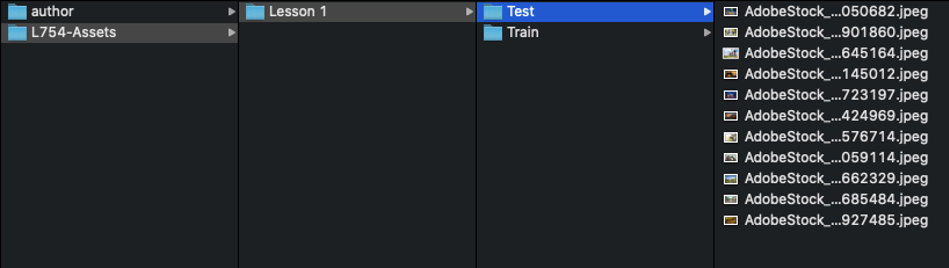
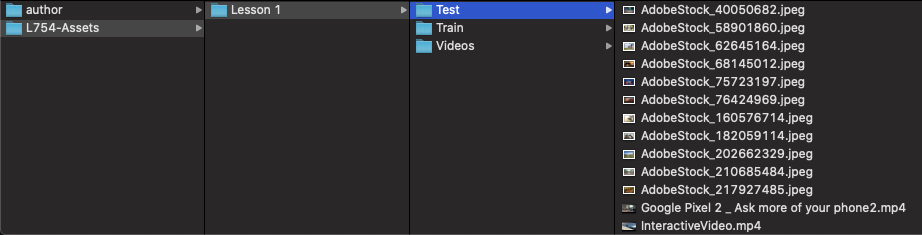
Latest changes

diff --git a/l754/Home.md b/l754/Home.md
@@ -1,12 +1,12 @@
-# L754 - Digital Asset Management in an AI-First World
+ # L754 - Digital Asset Management in an AI-First World
 
 ## Table of Contents
 
 * [Lab Overview](#lab-overview)
 * [Lesson 1 - Improve discoverability through contextual Smart Tags](#lesson-1---improve-discoverability-through-contextual-Smart-Tags) 
-* [Lesson 2 - Enhanced search powered by AI](#lesson-2---enhanced-search-powered-by-ai)
+* [Lesson 2 - Enhance search using the power by AI](#lesson-2---enhance-search-using-the-powered-by-ai)
 * [Lesson 3 - Smart cropping of images & videos](#lesson-3---smart-cropping-of-images-&-videos)
-* [Lesson 4 - Use business context to improve insights & search for assets](#lesson-4---use-business-context-to-improve-insights-&-search-for-assets)
+* [Lesson 4 - Unlocking value with the power of Asset Insights](#lesson-4---Unlocking-value-with-the-power-of-Asset-Insights)
 * [Additional Resources](#additional-resources)
 
 ## Lab Overview
@@ -51,7 +51,7 @@ In order to train the Smart Tagging service with your custom tags, you have to h
     * **Username**: admin
     * **Password**: admin 
 
-* Open **Global Navigation** by clicking on the AEM Logo (![aem-logo](assets/aem-icon.jpeg =20x))the upper left corner of the screen.
+* Open **Global Navigation** by clicking on the AEM Logo <img src="assets/aem-icon.jpeg" alt="aem-logo" width="18"/> the upper left corner of the screen.
 * Select the **Tools** (_hammer_) icon from the left railing. The right panel will default to **General**.
 
 ![1.1-tagging-screen](assets/1.1-tagging-screen.png)
@@ -164,11 +164,16 @@ This exercise demonstrates the process to carry out such a training.
 * Finally click on the **Save & Close** button on the properties screen, then check the **Append** option and click on **Submit** button to save the tag successfully
 
 * * * 
-**Note**:
+
+**Note**: 
+
+<br>
+<img src="assets/bulb.png" alt="idea-bulb" width="50"/>
 
 ##### Choosing the Training Assets
 
 Training the Smart Tag service to tag images automatically with custom tags requires certain qualities in the training images
+
 * **Quantity and Size**: Use about 25-30 images per tag with a minimum of 500 pixels on the longer side
 * **Coherence**: Images tagged with the same tag should be visually similar
 * **Coverage**: Have sufficient variety in the training images in terms of color, orientation and sizes of the same subject
@@ -177,6 +182,7 @@ Training the Smart Tag service to tag images automatically with custom tags requ
 * **Union**: For those images that qualify for multiple tags, all applicable tags should be applied during training
 
 * * * 
+
 
 #### 1.1.3.	Run the Smart Tag Training workflow
 
@@ -188,7 +194,7 @@ Having setup sample assets with the necessary tags for training, the final step 
     * Go to http://localhost:4502 and enter the following credentials
     * **Username**: admin
     * **Password**: admin 
-* Open **Global Navigation** by clicking on the AEM Logo (![aem-logo](assets/aem-icon.jpeg =20x))the upper left corner of the screen.
+* Open **Global Navigation** by clicking on the AEM Logo <img src="assets/aem-icon.jpeg" alt="aem-logo" width="18"/> the upper left corner of the screen.
 * Select the **Tools** (_hammer_) icon from the left railing. . Then select the **Workflow** item in the middle pane that opens up the workflow related cards on the right pane
 
 ![1.3.1-workflow](assets/1.3.1-workflow.png)
@@ -269,7 +275,7 @@ This exercise demonstrates how the application of the previously trained custom 
 
 ##### Check properties of the assets for validating application of custom tags
 
-* Go into the **Banners-Ne**w folder in AEM by clicking on the folder name
+* Go into the **Banners-New** folder in AEM by clicking on the folder name
 * Select any asset by hovering over the asset and selecting the check mark icon
 * Click **Manage Tags** option from the menu bar at the top
 
@@ -284,55 +290,13 @@ This exercise demonstrates how the application of the previously trained custom 
 
 Any new assets ingested after the training can potentially be tagged with the custom tags based on the subject of the images being ingested.
 
-### Exercise 1.3: Enrich video assets with Smart Tags
-
-AEM not only supports automatic tagging of images, but also automatically suggests tags for video assets as well.  In this exercise, you will see the tagging of video assets in action.
-
-#### 1.3.1 Create a new folder for uploading video assets
-
-* Login to the AEM Assets Author instance 
-    * Go to http://localhost:4502 and enter the following credentials
-    * **Username**: admin
-    * **Password**: admin 
-* Go to the following location in your local AEM instance: http://localhost:4502/assets.html/content/dam 
-* Click on **Create** button on the top right corner
-* Select **Folder** in the fly-out menu
-* Provide the Title for the new folder as **Videos**
-* Click on the **Create** button to create the new folder
-
-#### 1.3.2 Enable Smart Tagging on the new folder
-
-* Select the **Videos** folder by hovering over the folder name and selecting the check mark icon
-* Click on the **Properties** link in the top menu bar to open the folder properties
-* Check the **Enable Smart Tags** option and then click on **Save & Close**
-
-#### 1.3.3 Upload test assets for auto-tagging
-
-* Go into the **Videos** folder in AEM by clicking on the folder name
-* Open Finder on the desktop
-* Navigate to **Desktop > Assets > Lesson 1 > Videos** folder
-1.3-videos
-![1.3-videos](assets/1.3-videos.png)
-* Select all the files in that folder 
-* Drag-&-drop them onto the AEM window in the browser
-* Wait for the processing of the assets to be done which may take 1-2 minutes, then refresh the page
-* Once the processing is done, all the assets are shown with a New label on the right corner
-
-#### 1.3.4 Check properties of the assets for validating application of custom tags
-
-* Go into the **Videos** folder in AEM by clicking on the folder name
-* Select any asset by hovering over the asset and selecting the check mark icon
-* Click **Manage Tags** option from the menu bar at the top
-
-![1.3-videos-tags](assets/1.3-videos-tags.png)
-
-### Exercise 1.4: Moderation of suggested tags
+### Exercise 1.3: Moderation of suggested tags
 
 While the AI algorithm does a great job of suggesting many relevant tags, the control is finally in the hands of the user to curate and refine the suggested tags further to boost the search-ability of these images that are auto-tagged by the algorithm.
 
 In this exercise, we will look at how to moderate the tags on the assets in AEM
 
-#### 1.4.1 Select folder or image for which tags need to be moderated
+#### 1.3.1 Select folder or image for which tags need to be moderated
 
 * Login to the AEM Assets Author instance 
     * Go to http://localhost:4502 and enter the following credentials
@@ -344,7 +308,7 @@ In this exercise, we will look at how to moderate the tags on the assets in AEM
 
 ![1.4-manage-tags](assets/1.4-manage-tags.png)
 
-#### 1.4.2 Purge the unwanted tags that are not relevant to the asset
+#### 1.3.2 Purge the unwanted tags that are not relevant to the asset
 
 * In the tag moderation screen, select the tags that are not relevant to the image, by clicking on them. For example, in the image below, consider the following tags are not relevant and select them by clicking on them
     * **sunrise,sunset**
@@ -352,7 +316,7 @@ In this exercise, we will look at how to moderate the tags on the assets in AEM
 
 ![1.4-purge-tags](assets/1.4-purge-tags.png)
 
-#### 1.4.3 Promote relevant tags 
+#### 1.3.3 Promote relevant tags 
 
 * We also want to indicate a higher priority to some of the more relevant tags by promoting them. We do this by selecting the relevant tags and clicking on the **Promote** button on the top menu bar. In this example asset, let us promote the following tags: 
     * **silhouette, success, achievement**
@@ -364,26 +328,46 @@ In this exercise, we will look at how to moderate the tags on the assets in AEM
 
 With these steps, you have curated the auto-suggested tags to suit your assets while promoting the more relevant tags to boost the search-ability of these images greatly.
 
-# Lesson 2 - Enhanced search powered by AI
+### Exercise 1.4: Enrich video assets with Smart Tags
+
+AEM not only supports automatic tagging of images, but also automatically suggests tags for video assets as well.  In this exercise, you will see the tagging of video assets in action.
+
+#### 1.4.1 Navigate to **Banners-New** folder created earlier
+
+* Login to the AEM Assets Author instance 
+    * Go to http://localhost:4502 and enter the following credentials
+    * **Username**: admin
+    * **Password**: admin 
+* Go to the following location in your local AEM instance: http://localhost:4502/assets.html/content/dam/wknd/banners-new
+
+
+#### 1.4.2 Validate that tags are automatically applied on the video assets
+
+* Go into the **Banners-New** folder in AEM by clicking on the folder name
+* Notice that the test assets that we uploaded earlier also included 2 video files
+* Look for the video assets with **.mp4 extension**. Hover over the file and select it
+* Click **Manage Tags** option from the menu bar at the top
+
+You will notice that the video assets have also received suggested tags based on the contents of the video using the Smart Tagging capabilities of AEM.
+
+![1.3-videos-tags](assets/1.3-videos-tags.png)
+
+# Lesson 2 - Enhance search using the power by AI
 
 ## Objective
 
-1.TBD
-2.TBD
+1. Learn how the smart tagging increases the efficacy of search in AEM
+2. Understand how to use the Visual or Similarity search feature to further improve image search in AEM
 
 
 ## Lesson Context
 
-TBD
+By running the assets through the auto-tagging process, we have brought out the ‘dark assets’ to the surface with appropriate metadata applied on them. In this exercise, let us see the effects that auto-tagging and tag moderation processes have on the search experience for the users.
  
 
 ### Exercise 2.1: Text Search
 
-#### 2.1.1 Experience the improved search efficacy with auto-tagged assets
-
-By running the assets through the auto-tagging process, we have brought out the ‘dark assets’ to the surface with appropriate metadata applied on them. In this exercise, let us see the effects that auto-tagging and tag moderation processes have on the search experience for the users.
-
-##### Navigate to the Assets folder in AEM
+#### Navigate to the Assets folder in AEM
 
 * Login to the AEM Assets Author instance 
     * Go to http://localhost:4502 and enter the following credentials
@@ -391,21 +375,20 @@ By running the assets through the auto-tagging process, we have brought out the 
     * **Password**: admin 
 * Go to the following location in your local AEM instance: http://localhost:4502/assets.html/content/dam
 
-##### Initiate a new search using one of the promoted tags
+#### Initiate a new search using one of the promoted tags
 
 * Click on the lens icon at the top right corner of the screen to open the Omnisearch
 * Enter the term **earth** in the Omnisearch and hit enter
 * The search results page will bring up the video that contains content related to earth. This asset would not have been discoverable without the automated tagging of the video
 
-![2.1-text-search](assets/2.1-text-search.png =500x)
+<img src="assets/2.1-text-search.png" alt="2.1-text-search" width="500"/> 
 
 * Next, try entering the term **achievement** in the Omnisearch and hit enter
 * The search results page will bring up the images that have a subject related to the concept of achievement, such as the image below with a person celebrating 
-2.1-achievement
 ![2.1-achievement](assets/2.1-achievement.png)
 * Notice that we had promoted the tag **achievement** earlier for this image which prompted the search engine to bring up this image in the results, despite the asset not having anything related in the name or description 
 
-##### Initiate a new search using one of the deleted tags
+#### Initiate a new search using one of the deleted tags
 
 * Click on the lens icon again to open the Omnisearch
 * Enter the term **sunrise** in the Omnisearch and hit enter
@@ -415,9 +398,7 @@ This exercise clearly demonstrates how the Tag management capabilities in AEM ad
 
 ### Exercise 2.2: Visual Search
 
-#### 2.2.1 Using visual search
-
-##### Navigate to the assets root folder and search for sunrise again
+#### Navigate to the assets root folder and search for sunrise again
 
 * Login to the AEM Assets Author instance 
     * Go to http://localhost:4502 and enter the following credentials
@@ -428,7 +409,7 @@ This exercise clearly demonstrates how the Tag management capabilities in AEM ad
 * Enter the term **sunrise** in the Omnisearch, as done earlier, and hit enter
 * You will the results with images related to sunrise
 
-##### Choose the ‘Find Similar’ action for any of the asset
+#### Choose the ‘Find Similar’ action for any of the asset
 
 * Hover on the image that you are interested in, then click on the ellipsis (…) icon to open **More actions** menu
 * For this example, we are using the image with sunrise & mountains together, hover on the image and click on the ellipsis (…)
@@ -441,6 +422,15 @@ This exercise clearly demonstrates how the Tag management capabilities in AEM ad
 ![2.2-visual-search-results](assets/2.2-visual-search-results.png) 
 
 * Also notice on the search form at the top of the results page, it now has a small thumbnail of the image against the search was triggered, to indicate what results are being shown currently
+
+* Let's try one more, go to the location http://localhost:4502/assets.html/content/dam/wknd/banners-new
+
+![2.2-visual-star-hotel](assets/2.2-visual-star-hotel.png)
+
+* Initiate a **Find similar** action on the **Thousand star Hotel** image (ADOBESTOCK_75723197.JPEG)
+* This brings up many other images with a tent, that we had uploaded in the earlier exercises
+
+![2.2-star-hotel-results](assets/2.2-star-hotel-results.png)
 
 # Lesson 3 - Smart cropping of images & videos
 
@@ -556,3 +546,22 @@ Cropping images and video can be a time-consuming and labor-intensive endeavor t
 ![3.2-device-options](assets/3.2-device-options.png)
 * While being in the developer tools mode, play the video and switch between different phone & tablet devices along with the portrait and landscape modes to see how the video adapts to the changing screen dimensions
 ![3.2-portrait-landscape](assets/3.2-portrait-landscape.png)
+
+# Lesson 4 - Unlocking value with the power of Asset Insights
+
+## Objective
+
+1. Know how Asset Insights can help uncover the ROI for the assets that your enterprise has invested in
+2. Learn how to attribute the user engagement and conversions back to the creative and content strategies
+3. Explore how you can bring back insights into AEM to increase the efficacy of search and use of assets
+
+
+## Lesson Context
+
+Asset Insights provides a capability that is unique to AEM which allows the marketers to measure the use and reach of their assets across different digital properties and thus derive insights around the efficacy of the assets. While the default Asset Insights capabilities provide a view into the usage of the assets, it is possible to extend the scope of the insights to associate the assets to business-centric metrics such as successful conversions and revenue.
+
+This lesson aims to walk you through the possible approach for enhancing the Asset Insights implementation to derive deeper insights around the use and reach of assets and thus helping the marketers fine tune their asset and content creation strategies for the future campaigns. 
+
+### Exercise 4.1: Understand Asset Insights
+
+##### 

diff --git a/l737/Home.md b/l737/Home.md
@@ -102,7 +102,7 @@ After setting up the contribution folder and uploading the baseline assets into 
 This will publish the Contribution folder to Brand Portal. 
 * An email notification is sent to the Brand Portal users/groups who are selected at the time of creating the contribution folder. They can login to Brand Portal and contribute the requested assets
 
-![1.3-contribution-notification](assets/1.3-contribution-notification.png =600x)
+<img src="assets/1.3-contribution-notification.png" alt="1.3-contribution-notification" width="600"/>
 
 
 ### Exercise 1.4 Uploading assets into contribution folder in Brand Portal
@@ -131,7 +131,7 @@ Once the Contribution folder is published to Brand Portal, the designated users 
 * Click **Create > Files** to upload individual assets into the **New** folder 
 * Select the assets from the **Desktop > L737-Assets > Lesson 1 > Upload** folder from the local desktop
 
-![1.4-new-upload](assets/1.4-new-upload.png =600x)
+<img src="assets/1.4-new-upload.png" alt="1.4-new-upload" width="600"/>
 * Click on **Open** and then click on **Upload** button on the next dialog to successfully upload the new assets into the **New** folder on Brand Portal
 
 
@@ -146,7 +146,7 @@ After uploading the requested assets into Brand Portal, it is now time to publis
 * Select the **WKND Banners** folder and click on **Publish to AEM** 
 ![1.5-publish-aem](assets/1.5-publish-aem.png)
 * A success message will be shown for the publish request, as seen in the screen shot below
-![1.5-success](assets/1.5-success.png =350x)
+<img src="assets/1.5-success.png" alt="1.5-success" width="350"/>
 * To check the status of the, unselect the **WKND Banners** folder and click on the AEM icon <img src="assets/aem-icon.jpeg" width="23"> on the top left corner
 * Click on the Asset Contribution Status card
 * You will see the list of all the Publish to AEM requests raise in the past and their status
@@ -192,7 +192,7 @@ This exercise will cover steps to publish approved assets from AEM into Brand Po
 * On the Create Folder panel, set name & title for the folder.
 * Naming convention for this lab: ‘**L737-AttendeeName-AttendeeOrganization**’ (e.g. L737-Rajit- Adobe).
 
-![2.1-create-dialog](assets/2.1-create-dialog.png =250x)
+<img src="assets/2.1-create-dialog.png" alt="2.1-create-dialog" width="250"/>
 
 * Navigate to the newly created folder & upload sample assets into the folder using Touch UI upload or Drag & Drop feature in AEM
 
@@ -312,7 +312,7 @@ This exercise will show how to setup public folders. To make a folder public in 
 * Guest users can download the assets using download modal.
 
 
-![2.5-guest-download](assets/2.5-guest-download.png =250x)
+<img src="assets/2.5-guest-download.png" alt="2.5-guest-download" width="250"/>
 
 * To end session, Guest user can click on top right and ‘End Session’
 
@@ -346,7 +346,7 @@ You will see results pertaining to the text with which you performed the search,
 
 * With Smart Tags configured in your AEM Assets, Brand Portal supports smart tag based searches. (AEM publishes the smart tags for each asset while publishing them to Brand Portal).
 
-![3.1-smart-tags](assets/3.1-smart-tags.png =250x)
+<img src="assets/3.1-smart-tags.png" alt="3.1-smart-tags" width="250"/>
 
 * * *
 _**Note**: The **Assets Smart Tags** feature increases the accuracy and efficiency of search in AEM & Brand Portal by automatically adding metadata tags to image assets that you upload into AEM. You can also configure AEM to automatically apply tags in bulk to all assets within a folder_
@@ -361,7 +361,7 @@ _**Note**: The **Assets Smart Tags** feature increases the accuracy and efficien
 * Saved Searches can be accessed by using the Saved Searches dropbox in Filter
 2.5-saved-search
 
-![3.1-saved-search](assets/3.1-saved-search.png =300x)
+<img src="assets/3.1-saved-search.png" alt="3.1-saved-search" width="250"/>
 
 ### Exercise 3.2 Downloading from Brand Portal 
 
@@ -373,7 +373,7 @@ This exercise will cover the process and options to download assets from Brand P
 
 * Download modal will show up, which allow users to download the asset including renditions. If asset has pTiff rendition existing, then dynamic rendition download option is enabled
 
-![3.2-download-modal](assets/3.2-download-modal.png =250x)
+<img src="assets/3.2-download-modal.png" alt="3.2-download-modal" width="250"/>
 
 * Brand Portal allows user to send email notification to authorized user (including partners & vendors) about the download, user will get email notification when assets (in ZIP format) are ready to download - Optional for this lab exercise.
 
@@ -425,9 +425,9 @@ In this exercise, you will explore the key pages that are available as part of t
 
 ![4.1-search-results](assets/4.1-search-results.png)
 
-* Finally click on the Asset Share Commons logo ![4.1-asc-logo](assets/4.1-asc-logo.png =18x) at the top left corner to navigate back to the homepage
+* Finally click on the Asset Share Commons logo <img src="assets/4.1-asc-logo.png" alt="4.1-asc-logo" width="18"/> at the top left corner to navigate back to the homepage
 
-### Exercise 4.2 Homepage & Search
+### Exercise 4.2 Asset Details & Cart
 
 * Click on any of the assets to go to the asset details page
 * Notice the various tags and metadata of the asset displayed on the right pane of the screen
